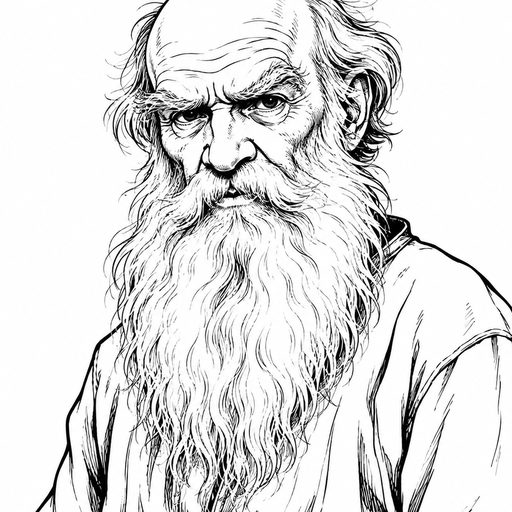
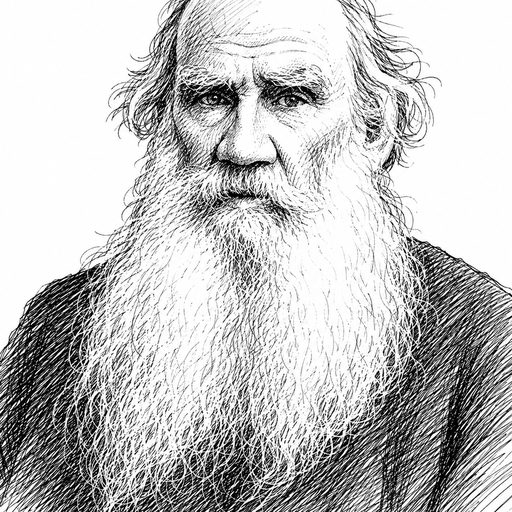
All 23 portraits redrawn from photographs
Charlie generated the set from actual photographs of each writer, which was the TODO
item written this morning, arriving the same afternoon. Same pipeline as before -
greyscale, 9% inset crop, 512px, JPEG at quality 82 - so nothing about how they are
served changes.

It settles every argument the LOOK strings kept losing. Proust has the flat moustache
his line asks for and six Flux draws refused. Thoreau has the chin curtain that made
him a New Englander rather than a bearded man. Nietzsche's hair is right first time.
Austen and Dickinson are plain rather than doe-eyed. A photograph does in one step what
no amount of wording achieved, because likeness stops being something the prompt has to
win an argument about.

The LOOK strings stay: tools/portrait-from-photo.md passes them ALONGSIDE the
photograph, and they are the fallback if the generator is ever used again. But --force
would now replace real likenesses with Flux approximations, and the note in
portraits.py says so.

The share card is rebuilt from the new faces, since it is made of nine of them.

diff --git a/tools/portraits.py b/tools/portraits.py
@@ -87,16 +87,21 @@ OUT = ROOT / "docs" / "faces"
 # raises KeyError and takes the whole workflow with it - on 26/08/2026 that killed the
 # portraits step, which skipped the Commit step, which threw away a completed reverdict
 # pass in the same run. main() now reports the missing ones and draws the rest.
-# FIVE OF THESE WERE NOT DRAWN BY THIS TOOL. Adams, Bourdain, Child, Franklin and
-# Tolstoy were generated by hand through ChatGPT on 28/08/2026, with three existing
-# portraits attached as REFERENCE IMAGES and the LOOK and STYLE strings below pasted as
-# the prompt. Cloudflare's window was spent and the alternatives could not match the
-# hand; the prompts are in the session record and reproducible from these same strings.
+# NONE OF THESE WERE DRAWN BY THIS TOOL ANY MORE. All 23 portraits were replaced on
+# 28/08/2026 with engravings generated from PHOTOGRAPHS of each writer, by hand through
+# ChatGPT, then put through this file's own greyscale, 9% inset crop and 512px resize.
 #
-# They came out better than Flux was managing, and for a reason worth keeping: the
-# reference images. Franklin landed his spectacles, domed crown and shoulder-length hair
-# in ONE draw, where Nietzsche took three rounds and Proust never got its moustache.
-# `--force` would overwrite all five with Flux versions - don't, without looking first.
+# That was the TODO item, arriving the same day it was written, and the result settles
+# the argument the LOOK strings below kept losing. Proust has the flat moustache his
+# line asks for and six Flux draws refused. Thoreau has the chin curtain. Nietzsche's
+# hair is right. Austen and Dickinson are plain rather than doe-eyed. A photograph does
+# in one step what no amount of wording achieved, because likeness stops being
+# something the prompt has to argue for.
+#
+# The LOOK strings are KEPT, not deleted: tools/portrait-from-photo.md passes them
+# alongside the photograph, and they remain the fallback if this tool is ever used
+# again. But `--force` would now replace a set of real likenesses with Flux
+# approximations - do not, without looking at both first.
 LOOK = {
     "wallace":  "a man in his thirties with long hair under a white bandana, round glasses, unshaven",
     "orwell":   "a gaunt Englishman with a thin moustache, tweed jacket, tired eyes",
